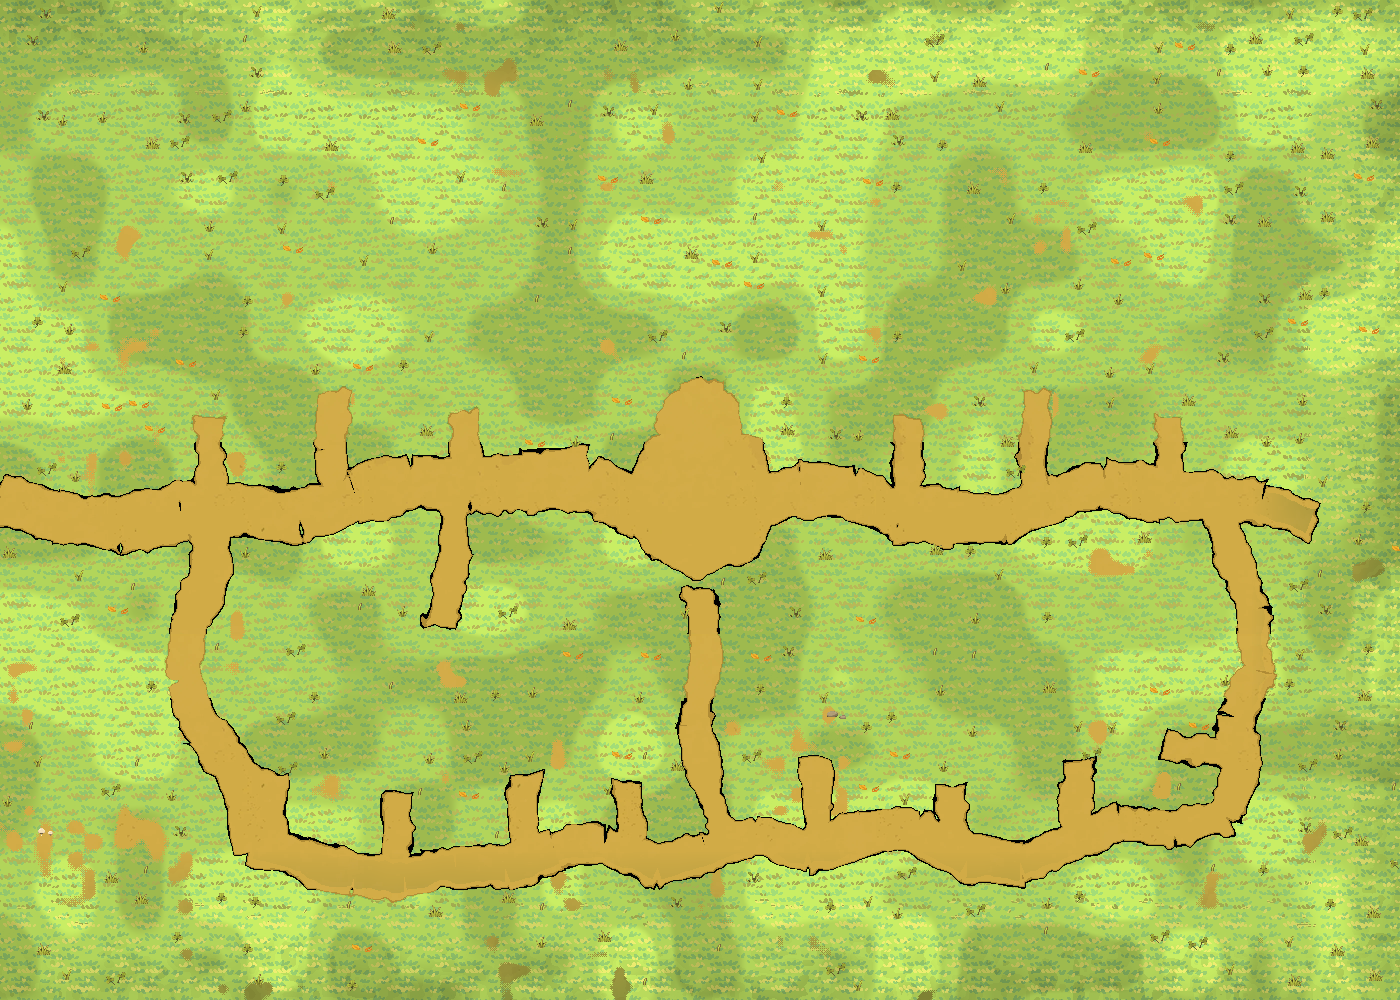
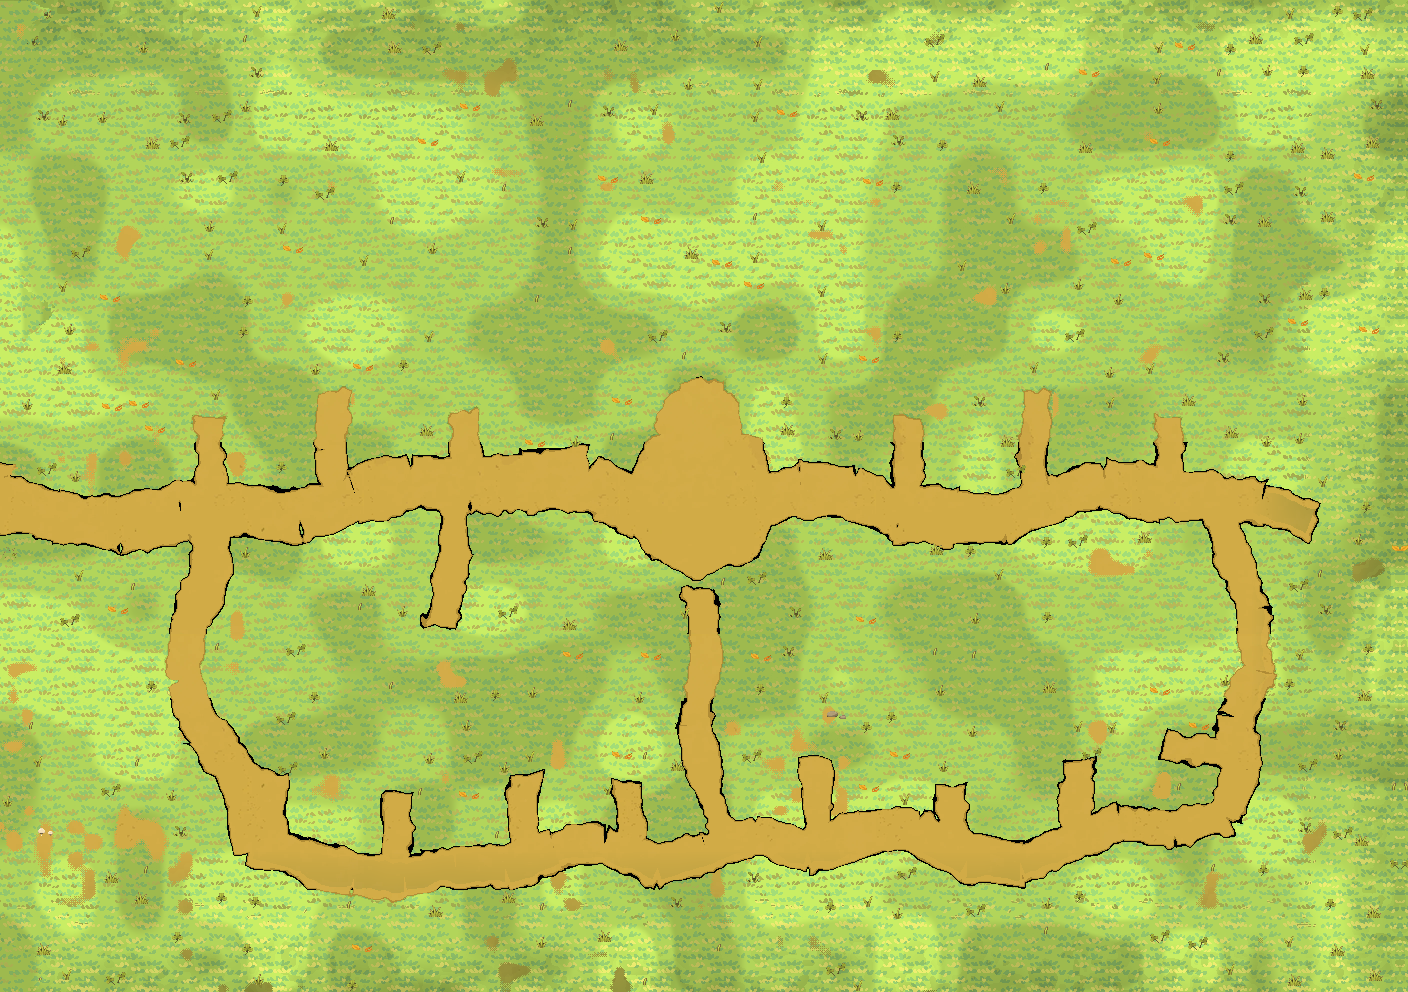
Tanah benua menyambung: gaya Sprout seragam, jalan tersambung & batas wilayah bergelombang
Claude-Session: https://claude.ai/code/session_013SaXTJuwinpA9vu4txrWbT

diff --git a/tools/seam_ground.py b/tools/seam_ground.py
@@ -1,0 +1,197 @@
+"""Tanah benua menyambung tanpa garis batas (Godot).
+
+Sumber: tools/ground_src/gnd_<id>_custom.png (gambar tanah tiap wilayah, gaya Sprout).
+Hasil:  godot/assets/art/ground/gnd_<id>_custom.png
+
+Langkah:
+1. Ukuran gambar disamakan dengan kotak wilayah di godot/core/world_layout.gd (dipotong / tepi diulang).
+2. Jalan tanah yang putus di perbatasan disambung (jalur tanah dari ujung jalan sisi lain menuju jalan terdekat di sisi ini).
+3. Pita perbatasan selebar BAND px dicampur berbintik (dither) dengan piksel tetangga yang dicerminkan,
+   sehingga warna rumput/biome berbeda (salju, rawa, hutan) memudar, bukan garis lurus.
+
+Jalankan dari akar repo:  python3 tools/seam_ground.py
+"""
+import re
+import numpy as np
+from PIL import Image
+
+SRC = 'tools/ground_src/gnd_%s_custom.png'
+OUT = 'godot/assets/art/ground/gnd_%s_custom.png'
+BAND = 56      # lebar pita pudar tiap sisi (px)
+LINK = 72      # kedalaman sambungan jalan ke dalam wilayah (px)
+
+
+def regions():
+    s = open('godot/core/world_layout.gd').read()
+    out = {}
+    for m in re.finditer(r'&"(\w+)": \{.*?"rect": Rect2i\((-?\d+), (-?\d+), (\d+), (\d+)\)', s, re.S):
+        out[m.group(1)] = tuple(int(v) for v in m.groups()[1:])
+    return out
+
+
+def fit(a, w, h):
+    """Potong atau ulangi tepi kanan/bawah agar tepat w×h."""
+    a = a[:h, :w]
+    if a.shape[0] < h:   # dicerminkan (bukan baris terakhir diulang → tidak ada garis-garis lurus)
+        a = np.concatenate([a, a[::-1][:h - a.shape[0]]], 0)
+    if a.shape[1] < w:
+        a = np.concatenate([a, a[:, ::-1][:, :w - a.shape[1]]], 1)
+    return a.copy()
+
+
+def is_dirt(px):
+    """Jalan tanah (dua keluarga warna: Sprout cokelat & kota kuning-oranye), bukan rumput/air/salju."""
+    r, g, b = px[..., 0].astype(int), px[..., 1].astype(int), px[..., 2].astype(int)
+    return (r > 120) & (r > g + 18) & (g > 80) & (b < 120) & (r - b > 60)
+
+
+def runs(mask):
+    xs = np.nonzero(mask)[0]
+    if not len(xs):
+        return []
+    cut = np.nonzero(np.diff(xs) > 3)[0] + 1
+    return [(int(p[0]), int(p[-1])) for p in np.split(xs, cut) if p[-1] - p[0] >= 6]
+
+
+def hashn(h, w, seed):
+    rng = np.random.default_rng(seed)
+    return rng.random((h, w))
+
+
+def edges(R):
+    """Pasangan tepi bersama: (a, b, sisi a, awal, akhir) dalam koordinat global sepanjang tepi."""
+    out = []
+    ids = list(R)
+    for i, a in enumerate(ids):
+        ax, ay, aw, ah = R[a]
+        for b in ids[i + 1:]:
+            bx, by, bw, bh = R[b]
+            ox0, ox1 = max(ax, bx), min(ax + aw, bx + bw)
+            oy0, oy1 = max(ay, by), min(ay + ah, by + bh)
+            if ox1 - ox0 >= 32 and ay + ah == by:
+                out.append((a, b, 'S', ox0, ox1))
+            elif ox1 - ox0 >= 32 and by + bh == ay:
+                out.append((b, a, 'S', ox0, ox1))
+            elif oy1 - oy0 >= 32 and ax + aw == bx:
+                out.append((a, b, 'E', oy0, oy1))
+            elif oy1 - oy0 >= 32 and bx + bw == ax:
+                out.append((b, a, 'E', oy0, oy1))
+    return out
+
+
+def strip(img, reg, side, g0, g1, depth, far):
+    """Ambil pita (depth × panjang) dari tepi; far=False → sisi 'atas/kiri' (a), True → sisi b. Baris 0 = paling dekat tepi."""
+    x, y, w, h = reg
+    if side == 'S':
+        c0, c1 = g0 - x, g1 - x
+        return img[h - depth:h, c0:c1][::-1] if not far else img[0:depth, c0:c1]
+    c0, c1 = g0 - y, g1 - y
+    return img[c0:c1, w - depth:w].transpose(1, 0, 2)[::-1] if not far else img[c0:c1, 0:depth].transpose(1, 0, 2)
+
+
+def put(img, reg, side, g0, g1, depth, far, band):
+    x, y, w, h = reg
+    if side == 'S':
+        c0, c1 = g0 - x, g1 - x
+        if not far:
+            img[h - depth:h, c0:c1] = band[::-1]
+        else:
+            img[0:depth, c0:c1] = band
+        return
+    c0, c1 = g0 - y, g1 - y
+    if not far:
+        img[c0:c1, w - depth:w] = band[::-1].transpose(1, 0, 2)
+    else:
+        img[c0:c1, 0:depth] = band.transpose(1, 0, 2)
+
+
+def dirt_tile(img_band):
+    """Petak 12×12 yang seluruhnya tanah dari pita (untuk tekstur sambungan jalan); None bila tak ada."""
+    m = is_dirt(img_band)
+    H, W = m.shape
+    for y in range(0, H - 12, 3):
+        for x in range(0, W - 12, 3):
+            if m[y:y + 12, x:x + 12].all():
+                return img_band[y:y + 12, x:x + 12].copy()
+    return None
+
+
+def link_paths(near, other, near_full_tile):
+    """Jalan di 'other' yang tak ada lawannya di 'near' dilanjutkan ke dalam 'near' menuju jalan terdekat
+    (kurva halus, lebar mengikuti), bertekstur petak tanah 'near' sendiri."""
+    tile = near_full_tile if near_full_tile is not None else dirt_tile(other)
+    if tile is None:
+        return
+    dn, dl = is_dirt(near[0]), is_dirt(other[0])
+    deep = min(LINK, near.shape[0])
+    for a0, a1 in runs(dl):
+        if dn[max(0, a0 - 24):a1 + 25].any():
+            continue
+        cx = (a0 + a1) / 2
+        target, trow = None, deep - 1
+        for row in range(deep - 1, 8, -4):
+            rr = [r for r in runs(is_dirt(near[row])) if abs((r[0] + r[1]) / 2 - cx) < 200]
+            if rr:
+                target = min(rr, key=lambda r: abs((r[0] + r[1]) / 2 - cx)); trow = row
+                break
+        if target is None:
+            target = (a0, a1)
+        for row in range(trow + 3):
+            t = min(1.0, row / max(1, trow)); t = t * t * (3 - 2 * t)
+            l = round(a0 + (target[0] - a0) * t); r = round(a1 + (target[1] - a1) * t)
+            for xx in range(max(0, l), min(near.shape[1], r + 1)):
+                near[row, xx] = tile[row % 12, xx % 12]
+
+
+def smooth_noise(n, seed, scale=40.0):
+    rng = np.random.default_rng(seed)
+    k = int(n / scale) + 3
+    pts = rng.uniform(-1, 1, k)
+    xs = np.arange(n) / scale
+    i0 = np.floor(xs).astype(int); f = xs - i0; f = f * f * (3 - 2 * f)
+    v = pts[i0] * (1 - f) + pts[i0 + 1] * f
+    rng2 = np.random.default_rng(seed + 7); k2 = int(n / 9) + 3; p2 = rng2.uniform(-1, 1, k2)
+    xs2 = np.arange(n) / 9; j0 = np.floor(xs2).astype(int); g = xs2 - j0
+    return v * 0.8 + (p2[j0] * (1 - g) + p2[j0 + 1] * g) * 0.25
+
+
+def blend(na, nb, seed):
+    """Garis batas lurus diganti garis bergelombang: di tiap titik sepanjang tepi, salah satu sisi 'masuk' ke sisi lain
+    sejauh derau halus (≤ BAND), memakai piksel cermin sisi itu; tepi gelombang diberi kotak 4 px berbintik."""
+    d, L = na.shape[0], na.shape[1]
+    f = smooth_noise(L, seed) * d                       # >0: b masuk ke a; <0: a masuk ke b
+    rows = np.arange(d)[:, None]
+    rng = np.random.default_rng(seed + 3)
+    jit = (rng.random(((d + 3) // 4, (L + 3) // 4)) - .5) * 8
+    jit = np.repeat(np.repeat(jit, 4, 0), 4, 1)[:d, :L]
+    ma = rows < (f[None, :] + jit)
+    mb = rows < (-f[None, :] + jit)
+    oa, ob = na.copy(), nb.copy()
+    oa[ma] = nb[ma]; ob[mb] = na[mb]
+    ka, kb = is_dirt(na) & ~is_dirt(nb), is_dirt(nb) & ~is_dirt(na)
+    oa[ka] = na[ka]; ob[kb] = nb[kb]
+    return oa, ob
+
+
+def main():
+    R = regions()
+    IMG = {}
+    for k, (x, y, w, h) in R.items():
+        IMG[k] = fit(np.array(Image.open(SRC % k).convert('RGBA')), w, h)
+    for i, (a, b, side, g0, g1) in enumerate(edges(R)):
+        depth = max(BAND, LINK) + 4
+        sa = strip(IMG[a], R[a], side, g0, g1, depth, False)
+        sb = strip(IMG[b], R[b], side, g0, g1, depth, True)
+        link_paths(sa, sb, dirt_tile(sa))
+        link_paths(sb, sa, dirt_tile(sb))
+        ba, bb = blend(sa[:BAND], sb[:BAND], 97 + i)
+        sa[:BAND], sb[:BAND] = ba, bb
+        put(IMG[a], R[a], side, g0, g1, depth, False, sa)
+        put(IMG[b], R[b], side, g0, g1, depth, True, sb)
+        print('sambung', a, b, side, g1 - g0)
+    for k, a in IMG.items():
+        Image.fromarray(a).save(OUT % k)
+
+
+if __name__ == '__main__':
+    main()

diff --git a/AGENTS.md b/AGENTS.md
@@ -36,3 +36,4 @@ Proyek kini berjalan sepenuhnya di **Godot 4.7.2** (`godot/project.godot`, rende
 ## Status Proyek Saat Ini
 - **24 Peta & Interior:** Desa Lumina, Arena Latihan, Hutan Lumina, Hutan Dalam, Jalur Sungai Senja, Padang Angin, Gua Batu, Rawa Senja, Puncak Beku, Danau Cermin, Jalan Raya Lama, 5 distrik Kota Lumina (`kgate`, `kpasar`, `kpermukiman`, `kakademi`, `kbawah`), serta 8 interior/gelanggang (`home`, `inn`, `elderhome`, `linahome`, `temple`, `kinn`, `arsip`, `arena`).
 - **Gameplay & Konten:** 24 musuh + bos 2 fase, 6 senjata, 4 zirah, 12 item, 38 dialog, 5 jurus sihir + guru, 9 misi & 6 pencapaian, 9 resep kerajinan/tempa, spot memancing, toko, peti, satwa liar, siang-malam & cahaya gua, BGM/SFX asli, save v4 (migrasi v1–v3), serta `export_presets.cfg` untuk Android & macOS.
+- **Tanah benua menyambung (2026-11-27):** semua wilayah luar memakai tanah gaya Sprout yang sama; `python3 tools/seam_ground.py` (sumber `tools/ground_src/`) menyamakan ukuran gambar tanah dengan kotak `WorldLayout`, menyambung jalan yang putus di perbatasan, dan mengganti garis batas lurus dengan batas bergelombang (salju/rawa memudar). Cek visual semua perbatasan: `xvfb-run -s "-screen 0 1280x720x24" Godot --path godot --rendering-driver opengl3 --script res://tests/_probe_edges.gd` → `/tmp/gt/e_*.png`.

diff --git a/tools/ground_src/README.md b/tools/ground_src/README.md
@@ -1,0 +1,12 @@
+# Sumber tanah benua (gaya Sprout)
+
+`gnd_<id>_custom.png` di sini adalah SUMBER untuk `python3 tools/seam_ground.py`, yang menulis
+`godot/assets/art/ground/gnd_<id>_custom.png` (ukuran disamakan dengan kotak wilayah di `godot/core/world_layout.gd`,
+jalan disambung di perbatasan, batas wilayah dibuat bergelombang).
+
+- village, meadow, kgate, kpasar, kakademi, kbawah, kpermukiman: gambar tanah yang sudah ada (tidak diubah).
+- lake, forest, deepwood, river, road, snow, swamp: dulu gambar kelas mentah (rumput hijau-toska + bintik tanah).
+  Bintik tanah kecil yang bukan jalan dibuang, lalu dirender dengan autotile Sprout + biome versi web lama
+  (commit b4a5fae, `genGround()` di src/world/ground.js) sehingga gayanya sama dengan desa.
+
+Ubah sumber di sini lalu jalankan ulang `seam_ground.py` dari akar repo; jangan sunting gambar di godot/ langsung.
